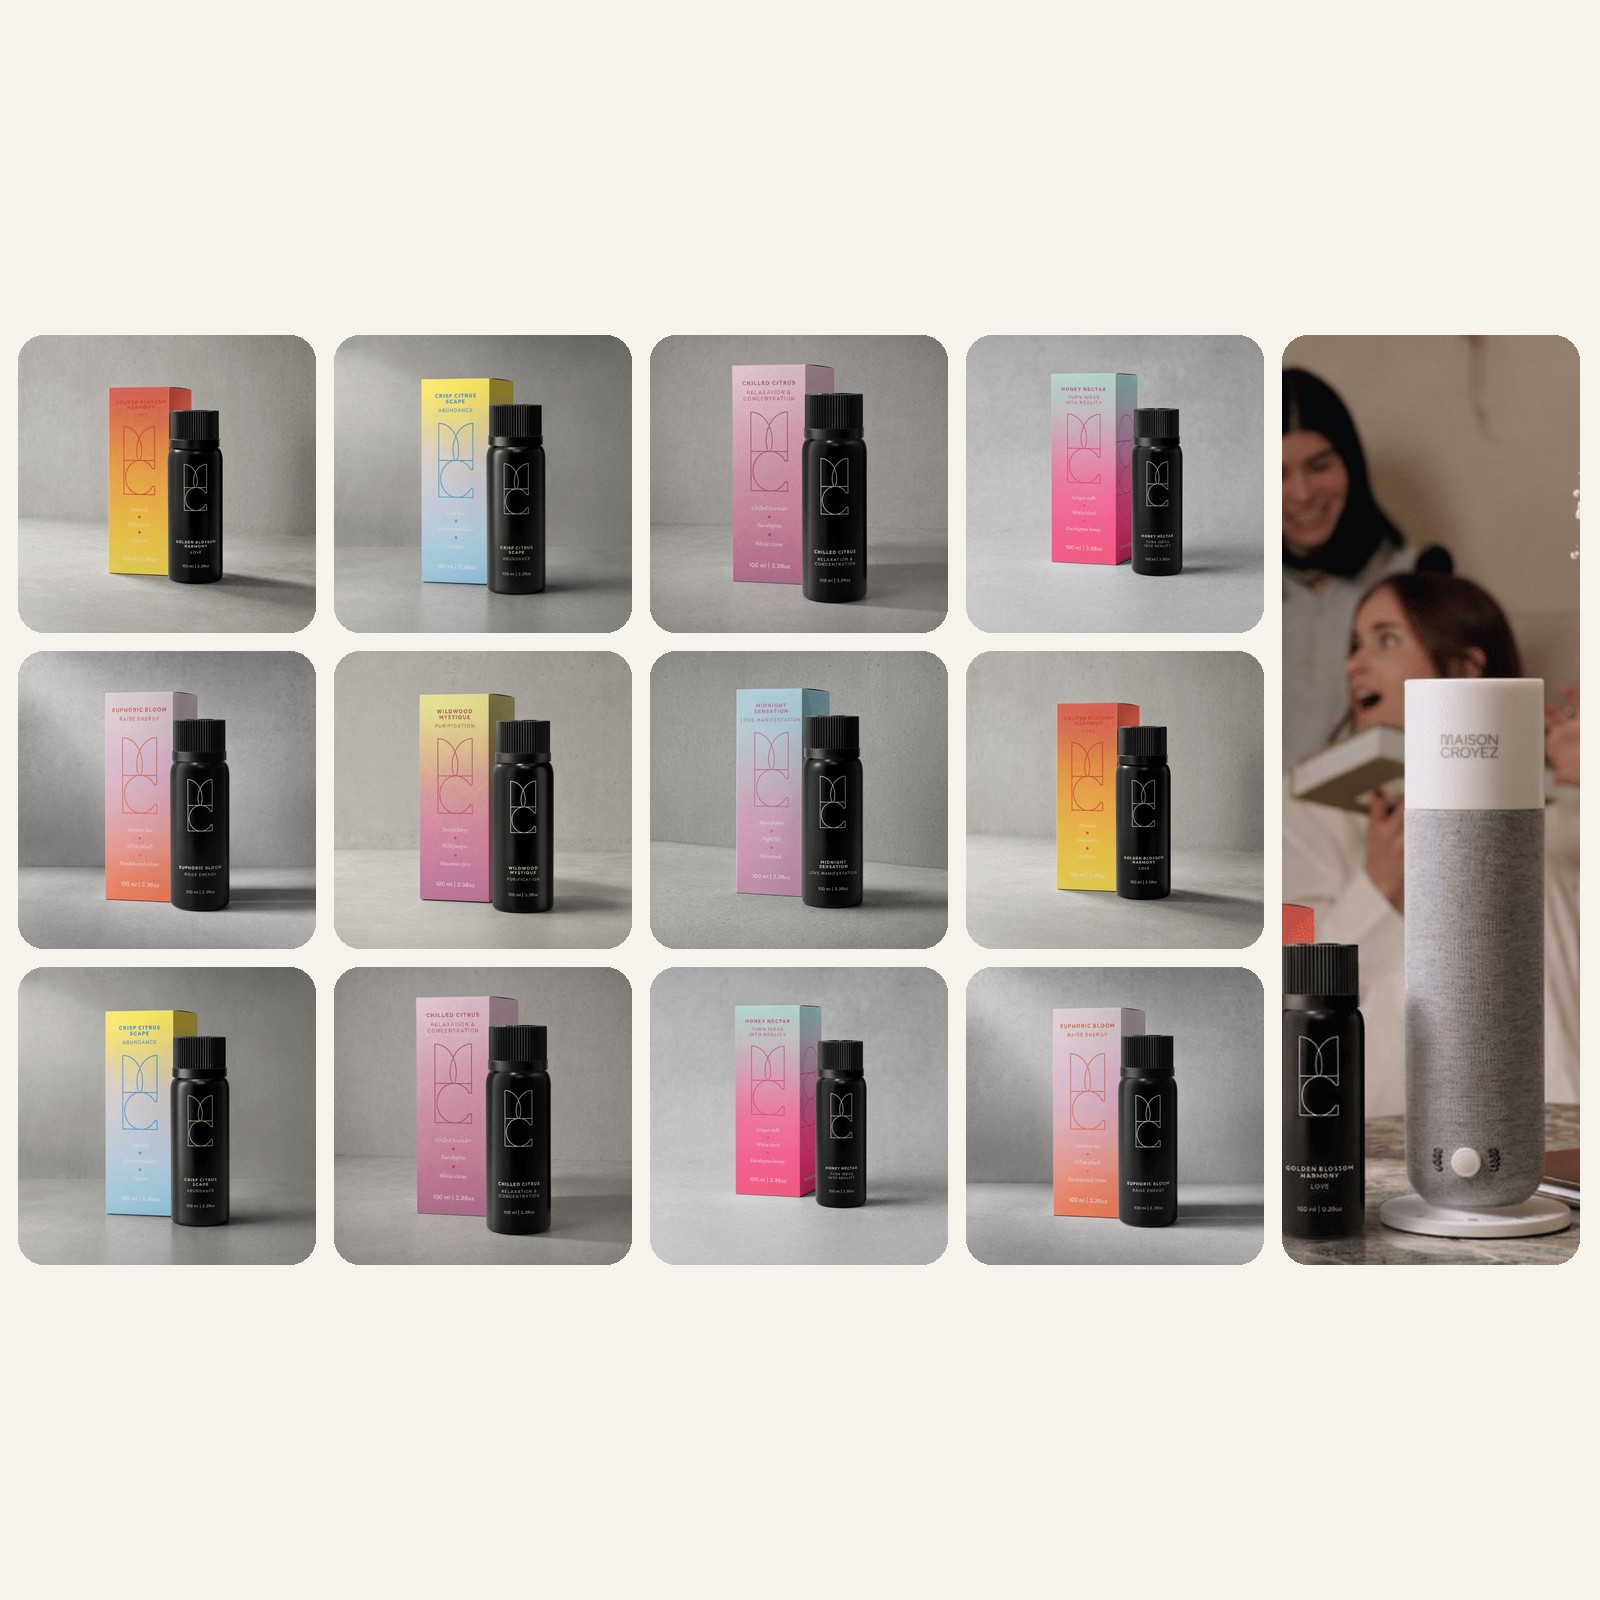
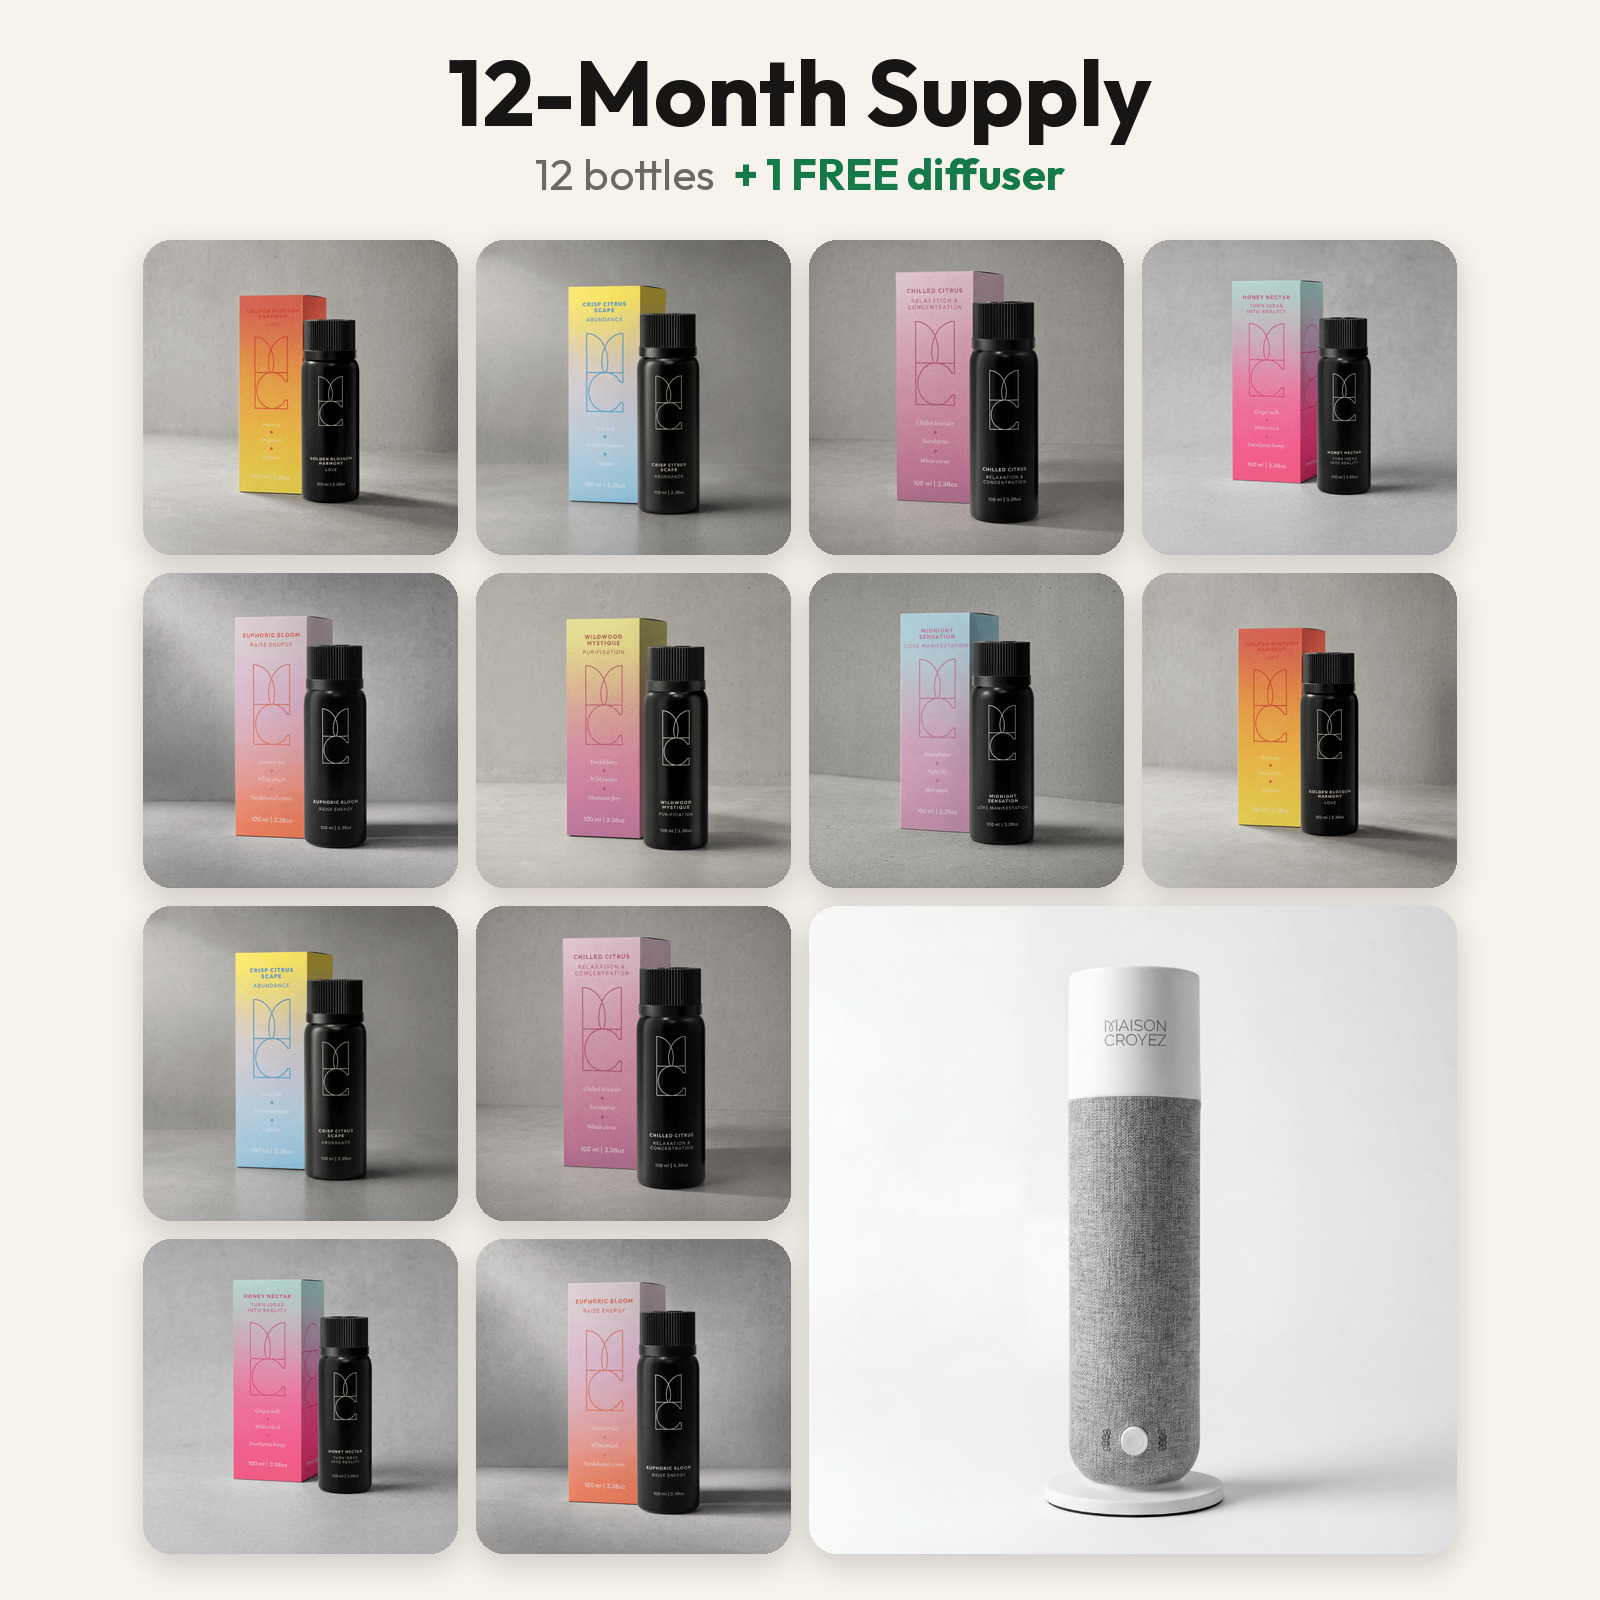
supply: compose.py builds the variant pictures from the real product photos (clean diffuser packshot, caption band)
Claude-Session: https://claude.ai/code/session_01Qt6jwbZYcUd6pzyfawb3Bj

diff --git a/lp-factory/pages/supply/img/variants/compose.py b/lp-factory/pages/supply/img/variants/compose.py
@@ -1,0 +1,85 @@
+#!/usr/bin/env python3
+"""Variant pictures for the Scent Supply product, composed from the REAL product photos (no AI): the seven scent
+bottle+box photos (lp-factory/assets/cdn/products/*.png, first image of each scent product on the store) and a diffuser
+packshot (lp-factory/assets/cdn/diffuser/*.png). One tile per bottle, one tile per free diffuser, a caption band on top.
+  6  → 3×2 bottles
+  9  → 3×3 bottles + the diffuser as a tall 1×3 tile
+  12 → 4×4 grid: 12 bottles + the diffuser as a 2×2 tile (bottom right)
+  18 → 5×4 grid: 18 bottles + 2 diffuser tiles (bottom right)
+usage: DIFF=<diffuser png> python3 compose.py   → supply-{6,9,12,18}-real.jpg (1600², sRGB JPEG q92)"""
+import os
+from PIL import Image, ImageDraw, ImageFont, ImageFilter
+HERE = os.path.dirname(os.path.abspath(__file__))
+PROD = os.path.join(HERE, "..", "..", "..", "..", "assets", "cdn", "products")
+DIFF = os.environ.get("DIFF") or os.path.join(HERE, "..", "..", "..", "..", "assets", "cdn", "diffuser", "d92.png")
+FONT_B = "/mnt/skills/examples/canvas-design/canvas-fonts/Outfit-Bold.ttf"
+FONT_R = "/mnt/skills/examples/canvas-design/canvas-fonts/Outfit-Regular.ttf"
+SCENTS = ["golden-blossom", "crisp-citrus", "chilled-citrus", "honey-nectar", "euphoric-bloom", "wildwood-mystique", "midnight-sensation"]
+BG = (246, 242, 236); INK = (24, 22, 20); MUTED = (110, 104, 96); GREEN = (22, 122, 72)
+W = 1600; PAD = 56; GAP = 18; RADIUS = 28
+
+def load(p):
+    im = Image.open(p); im.load()
+    if im.mode in ("P", "LA", "RGBA"):
+        bg = Image.new("RGB", im.size, BG); bg.paste(im.convert("RGBA"), mask=im.convert("RGBA").split()[-1]); return bg
+    return im.convert("RGB")
+
+def cover(im, w, h, focus=(0.5, 0.55)):
+    """crop-to-cover with a focus point (fractions of the source)"""
+    sw, sh = im.size; s = max(w / sw, h / sh)
+    nw, nh = max(w, round(sw * s)), max(h, round(sh * s)); im = im.resize((nw, nh), Image.LANCZOS)
+    cx, cy = focus[0] * nw, focus[1] * nh
+    x = min(max(0, cx - w / 2), nw - w); y = min(max(0, cy - h / 2), nh - h)
+    return im.crop((round(x), round(y), round(x) + w, round(y) + h))
+
+def rounded(im, r=RADIUS):
+    m = Image.new("L", im.size, 0); ImageDraw.Draw(m).rounded_rectangle((0, 0, im.size[0] - 1, im.size[1] - 1), r, fill=255)
+    out = Image.new("RGB", im.size, BG); out.paste(im, mask=m); return out, m
+
+def shadow(canvas, box, r=RADIUS):
+    x0, y0, x1, y1 = box; sh = Image.new("RGBA", canvas.size, (0, 0, 0, 0))
+    ImageDraw.Draw(sh).rounded_rectangle((x0, y0 + 10, x1, y1 + 10), r, fill=(60, 40, 20, 46))
+    sh = sh.filter(ImageFilter.GaussianBlur(14)); canvas.paste(Image.alpha_composite(canvas.convert("RGBA"), sh).convert("RGB"))
+
+def caption(d, y, title, sub, green=None):
+    fb = ImageFont.truetype(FONT_B, 92); fr = ImageFont.truetype(FONT_R, 44); fg = ImageFont.truetype(FONT_B, 44)
+    tw = d.textlength(title, font=fb); d.text(((W - tw) / 2, y), title, font=fb, fill=INK)
+    y2 = y + 112
+    if green:
+        sw_ = d.textlength(sub + "  ", font=fr); gw = d.textlength(green, font=fg); x = (W - sw_ - gw) / 2
+        d.text((x, y2), sub + "  ", font=fr, fill=MUTED); d.text((x + sw_, y2), green, font=fg, fill=GREEN)
+    else:
+        sw_ = d.textlength(sub, font=fr); d.text(((W - sw_) / 2, y2), sub, font=fr, fill=MUTED)
+
+def build(n, cols, rows, slots, title, sub, green, name):
+    """slots: list of (kind, c, r, cw, rh); kind 'b' (bottle i) or 'd' (diffuser)"""
+    cap_h = 230
+    tile = min((W - 2 * PAD - (cols - 1) * GAP) // cols, (W - cap_h - PAD - (rows - 1) * GAP) // rows)  # always fits 1600²
+    grid_w = cols * tile + (cols - 1) * GAP; grid_h = rows * tile + (rows - 1) * GAP
+    total = cap_h + grid_h + PAD; H = W; top = cap_h + (H - total) / 2 + 10; left = (W - grid_w) // 2
+    canvas = Image.new("RGB", (W, H), BG); d = ImageDraw.Draw(canvas)
+    caption(d, (H - total) / 2 + 34, title, sub, green)
+    bottles = [load(os.path.join(PROD, SCENTS[i % 7] + ".png")) for i in range(n)]
+    diff = load(DIFF); bi = 0
+    for kind, c, r, cw, rh in slots:
+        w = cw * tile + (cw - 1) * GAP; h = rh * tile + (rh - 1) * GAP
+        x = left + c * (tile + GAP); y = round(top + r * (tile + GAP))
+        if kind == "b":
+            im = cover(bottles[bi], w, h, (0.5, 0.56)); bi += 1
+        else:
+            im = cover(diff, w, h, (0.5, 0.5))
+        shadow(canvas, (x, y, x + w, y + h)); d = ImageDraw.Draw(canvas)
+        im, m = rounded(im); canvas.paste(im, (x, y), m)
+    assert bi == n, (name, bi, n)
+    out = os.path.join(HERE, f"supply-{name}-real.jpg"); canvas.save(out, quality=92, subsampling=0, optimize=True)
+    print(out, os.path.getsize(out))
+
+if __name__ == "__main__":
+    s6 = [("b", i % 3, i // 3, 1, 1) for i in range(6)]
+    build(6, 3, 2, s6, "6-Month Supply", "6 bottles · one each month", None, "6")
+    s9 = [("b", i % 3, i // 3, 1, 1) for i in range(9)] + [("d", 3, 0, 1, 3)]
+    build(9, 4, 3, s9, "9-Month Supply", "9 bottles", "+ 1 FREE diffuser", "9")
+    s12 = [("b", i, 0, 1, 1) for i in range(4)] + [("b", i, 1, 1, 1) for i in range(4)] + [("b", 0, 2, 1, 1), ("b", 1, 2, 1, 1), ("b", 0, 3, 1, 1), ("b", 1, 3, 1, 1), ("d", 2, 2, 2, 2)]
+    build(12, 4, 4, s12, "12-Month Supply", "12 bottles", "+ 1 FREE diffuser", "12")
+    s18 = [("b", i % 5, i // 5, 1, 1) for i in range(18)] + [("d", 3, 3, 1, 1), ("d", 4, 3, 1, 1)]
+    build(18, 5, 4, s18, "18-Month Supply", "18 bottles", "+ 2 FREE diffusers", "18")
